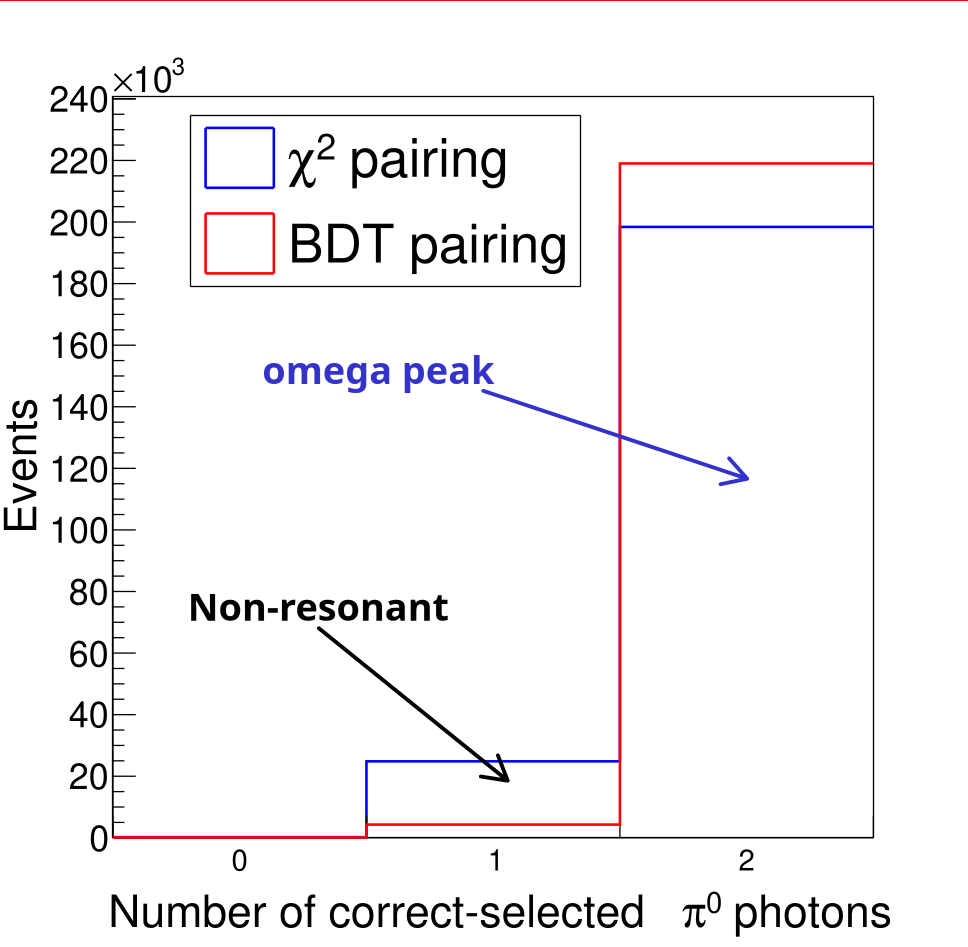
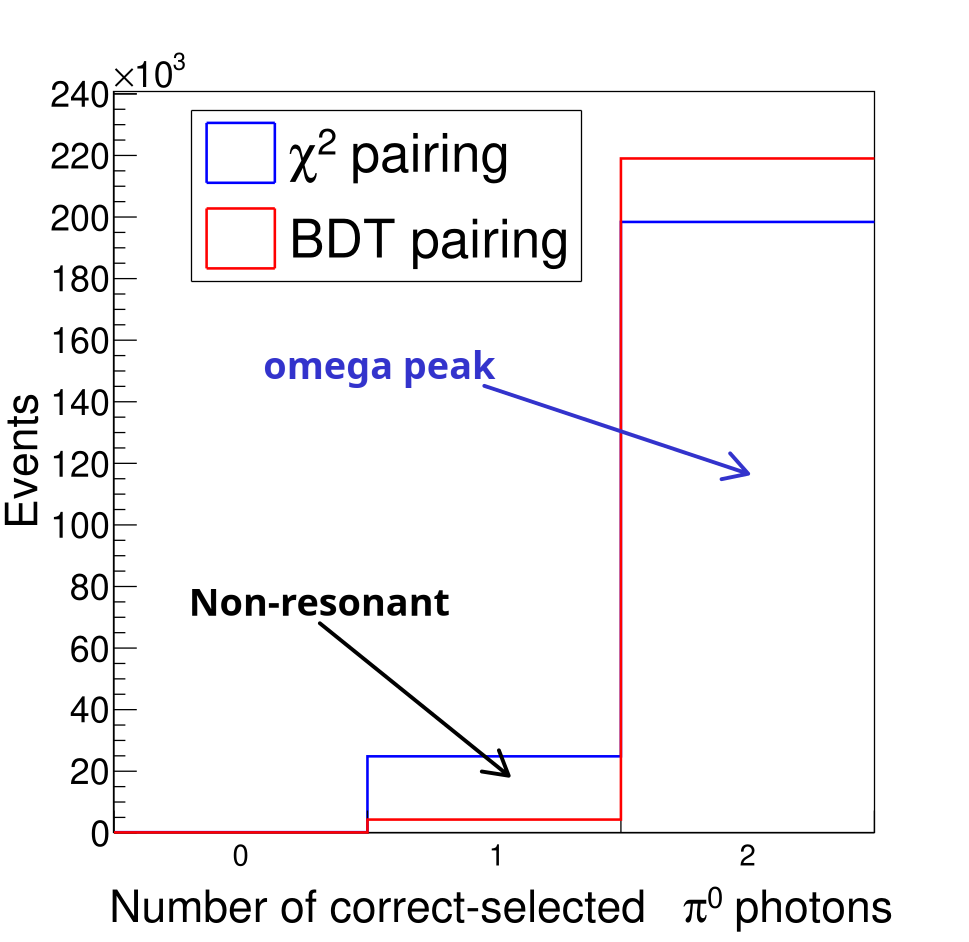
all changes

diff --git a/run_bdt/test_bdt.C b/run_bdt/test_bdt.C
@@ -143,7 +143,10 @@ void test_bdt() {
     TH2D* hM3pi_bdt_corr = new TH2D("hM3pi_bdt_corr", "M_{3#pi} Correlation",
                                     N_BINS_MASS, MASS_3PI_RANGE_MIN, MASS_3PI_RANGE_MAX,
                                     N_BINS_MASS, MASS_3PI_RANGE_MIN, MASS_3PI_RANGE_MAX);
-    TH2D* hM3pi_bdt_corr_non_reson = new TH2D("hM3pi_bdt_corr_reson", "M_{3#pi} Correlation",
+    TH2D* hM3pi_bdt_corr_peak = new TH2D("hM3pi_bdt_corr_peak", "M_{3#pi} Correlation (#omega peak)",
+                                    N_BINS_MASS, MASS_3PI_RANGE_MIN, MASS_3PI_RANGE_MAX,
+                                    N_BINS_MASS, MASS_3PI_RANGE_MIN, MASS_3PI_RANGE_MAX);
+    TH2D* hM3pi_bdt_corr_non_reson = new TH2D("hM3pi_bdt_corr_reson", "M_{3#pi} Correlation (Non-resonant)",
                                     N_BINS_MASS, MASS_3PI_RANGE_MIN, MASS_3PI_RANGE_MAX,
                                     N_BINS_MASS, MASS_3PI_RANGE_MIN, MASS_3PI_RANGE_MAX);
     
@@ -296,7 +299,7 @@ void test_bdt() {
 	    //cout << recon_indx_bdt << ", " << bkg_indx << endl;
 
 	    if (recon_indx_bdt == 2 && bkg_indx == 1) {
-	      hM3pi_bdt_corr->Fill(m3pi_true, m3pi);
+	      hM3pi_bdt_corr_peak->Fill(m3pi_true, m3pi);
 	    }
 	    else {
 	      hM3pi_bdt_corr_non_reson->Fill(m3pi_true, m3pi);
@@ -315,13 +318,13 @@ void test_bdt() {
     // After event loop, before drawing
     if (hasTrue) {
         // Fit the 2D correlation histogram
-        TFitResultPtr fitRes = hM3pi_bdt_corr->Fit("pol1", "S");
+        TFitResultPtr fitRes = hM3pi_bdt_corr_peak->Fit("pol1", "S");
         if (fitRes.Get() && fitRes->IsValid()) {
             double p0 = fitRes->Parameter(0);
             double p1 = fitRes->Parameter(1);
             double err0 = fitRes->ParError(0);
             double err1 = fitRes->ParError(1);
-            double corr = hM3pi_bdt_corr->GetCorrelationFactor();
+            double corr = hM3pi_bdt_corr_peak->GetCorrelationFactor();
             std::cout << "\n=== M3pi Correlation (BDT-selected) ===" << std::endl;
             std::cout << "Linear fit: M_reco = p0 + p1 * M_true" << std::endl;
             std::cout << "p0 = " << p0 << " +/- " << err0 << " MeV/c²" << std::endl;
@@ -354,7 +357,7 @@ void test_bdt() {
         h->GetXaxis()->SetLabelSize(0.04);
         h->GetYaxis()->SetLabelSize(0.04);
         h->GetXaxis()->SetTitleOffset(1.3);
-        h->GetXaxis()->SetNdivisions(6, kTRUE);
+	h->GetXaxis()->SetNdivisions(6, kTRUE);
         h->GetXaxis()->CenterTitle();
         h->GetYaxis()->CenterTitle();
     };
@@ -444,6 +447,7 @@ void test_bdt() {
       h2->GetYaxis()->SetTitle(yTitle);
       h2->GetXaxis()->SetTitleSize(0.05);
       h2->GetYaxis()->SetTitleSize(0.05);
+      h2->GetYaxis()->SetTitleOffset(1.3);
       h2->GetXaxis()->SetLabelSize(0.04);
       h2->GetYaxis()->SetLabelSize(0.04);
       h2->GetXaxis()->CenterTitle();
@@ -465,13 +469,25 @@ void test_bdt() {
       if (!hlines.empty()) {
         double xmin = gPad->GetUxmin();
         double xmax = gPad->GetUxmax();
-        for (double y : hlines) {
+	for (double y : hlines) {
 	  TLine *line = new TLine(xmin, y, xmax, y);
 	  line->SetLineColor(kBlack);
 	  line->SetLineWidth(3);
 	  //line->SetLineStyle(2);   // dashed
 	  line->Draw("same");      // <-- lower‑case "same"
         }
+
+	double ymin = gPad->GetUymin();
+        double ymax = gPad->GetUymax();
+	for (double x : hlines) {
+	  TLine *line1 = new TLine(x, ymin, x, ymax);
+	  line1->SetLineColor(kBlack);
+	  line1->SetLineWidth(3);
+	  //line1->SetLineStyle(2);   // dashed
+	  line1->Draw("same");      // <-- lower‑case "same"
+        }
+
+        
       }
       
       c->SaveAs(Form("../plots_test/%s.pdf", name));
@@ -499,8 +515,8 @@ void test_bdt() {
                    hMgg_pull, hM3pi_pull, hM2pi_pull,
                    "M_{#gamma#gamma} pull [MeV/c^{2}]", "M_{3#pi} pull [MeV/c^{2}]", "M_{2#pi} pull [MeV/c^{2}]",
                    "Normalized entries", kRed);
-	draw2D("m3pi_correlation", "M_{3#pi} Correlation (BDT-selected)",
-               hM3pi_bdt_corr, "M^{true}_{3#pi} [MeV/c^{2}]", "M^{rec}_{3#pi} [MeV/c^{2}]", true, {760, 800});
+	draw2D("m3pi_correlation_peak", "M_{3#pi} Correlation (BDT-selected)",
+               hM3pi_bdt_corr_peak, "M^{true}_{3#pi} [MeV/c^{2}]", "M^{rec}_{3#pi} [MeV/c^{2}]", true, {760, 800});
 	draw2D("m3pi_correlation_non_reson", "M_{3#pi} Correlation Non-resonance (BDT-selected)",
                hM3pi_bdt_corr_non_reson, "M^{true}_{3#pi} [MeV/c^{2}]", "M^{rec}_{3#pi} [MeV/c^{2}]", true, {760, 800});
     }
@@ -515,7 +531,7 @@ void test_bdt() {
     if (hasTrue) {
       hE1_pull->Write(); hE2_pull->Write(); hE3_pull->Write();
       hMgg_pull->Write(); hM3pi_pull->Write(); hM2pi_pull->Write();
-      hM3pi_bdt_corr->Write();
+      hM3pi_bdt_corr_peak->Write();
     }
     outfile->Close();
  
